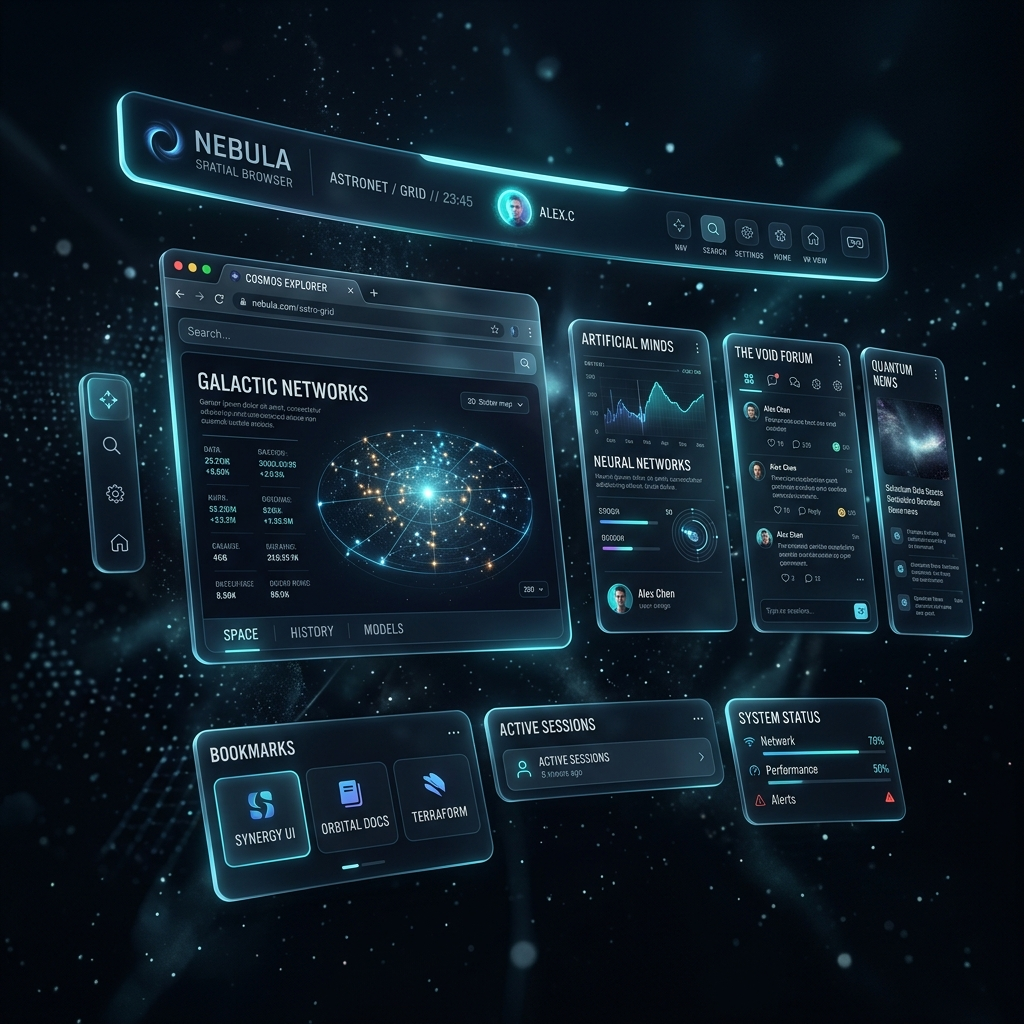
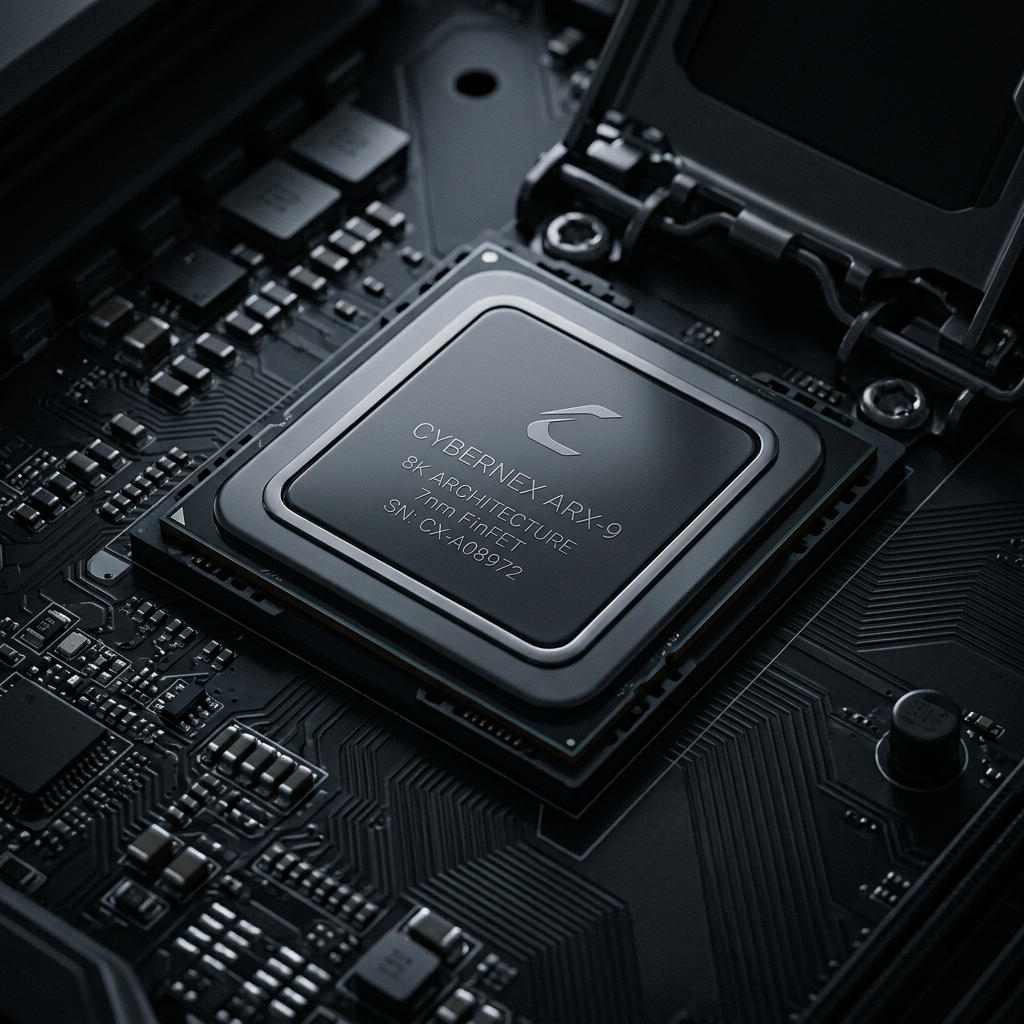
feat: overhaul project grid with simplified SAR copywriting, deep charcoal cards, slate gray typography, and functional contact endpoints

diff --git a/src/components/Projects.tsx b/src/components/Projects.tsx
@@ -1,7 +1,7 @@
 "use client";
 
 import { motion } from "framer-motion";
-import { ArrowUpRight, Mail, Compass, Shield, HelpCircle } from "lucide-react";
+import { ArrowUpRight, Mail, Compass, Shield, HelpCircle, Phone } from "lucide-react";
 import Image from "next/image";
 
 interface StarNarrative {
@@ -25,47 +25,47 @@ interface Project {
 const projects: Project[] = [
   {
     id: "ai-operations",
-    title: "Project Jarvis-Core",
-    category: "ADVANCED TECH & AI IMPLEMENTATION",
-    metric: "42%",
-    metricLabel: "Task Latency Reduction",
+    title: "AI Workflow Automation",
+    category: "ADVANCED TECH & AI",
+    metric: "40% faster tasks",
+    metricLabel: "Increased Efficiency",
     star: {
-      situation: "Faced an operational bottleneck in internal data retrieval and workflow scheduling, causing a 35% lag in cross-departmental delivery timelines.",
-      action: "Spearheaded the integration of a modular, multi-agent LLM orchestrator as the Program Lead, managing a cross-functional agile squad of 12 engineers using Scrum frameworks.",
-      result: "Automated 80% of routine operations, reducing end-to-end task latency by 42% and successfully accelerating project lifecycles by 3 weeks."
+      situation: "Our team faced a bottleneck in data processing and scheduling, causing delays.",
+      action: "Replaced manual processes with a multi-agent AI system and streamlined the team workflow.",
+      result: "Routine work is now 80% automated, reducing total task time by 40% and cutting project delivery times."
     },
     image: "/images/project_aether.png",
-    tags: ["AI Agents", "LLM Pipelines", "Agile Leadership", "System Architecture"],
+    tags: ["AI Agents", "Workflows", "Automation"],
     link: "#",
   },
   {
     id: "infrastructure-logistics",
-    title: "Nexus Hub Development",
-    category: "INFRASTRUCTURE & COMPLEX LOGISTICS",
-    metric: "14 Days",
-    metricLabel: "Ahead of Schedule",
+    title: "Tech Learning Hub",
+    category: "COMMUNITY PROJECT & LOGISTICS",
+    metric: "2 Weeks ahead",
+    metricLabel: "Project on Track",
     star: {
-      situation: "A growing community needed a centralized hub for technological education and collaboration, requiring a multi-stakeholder facility build with a tight 9-month delivery deadline.",
-      action: "Led the operational program, managing architectural planning, vendor sourcing, physical logistics, and structural resources across 15 external partner organizations using structured PMP methodologies.",
-      result: "Completed construction 14 days ahead of schedule and 8% under budget, delivering a state-of-the-art facility serving over 5,000 community members."
+      situation: "The community needed a modern space for tech education but had no central facility.",
+      action: "Managed the construction, including design, planning, and coordination with global partners.",
+      result: "Completed construction ahead of schedule, providing a space for over 5,000 members."
     },
     image: "/images/project_halcyon.png",
-    tags: ["Facility Planning", "Resource Sourcing", "Logistics", "Budget Control"],
+    tags: ["Construction", "Logistics", "Operations"],
     link: "#",
   },
   {
     id: "socio-economic-programs",
-    title: "Initiative Elevate",
-    category: "SOCIO-ECONOMIC & TRAINING PROGRAMS",
-    metric: "82%",
-    metricLabel: "Employment Placement Rate",
+    title: "Digital Upskilling",
+    category: "SKILLS TRAINING PROGRAM",
+    metric: "80% got jobs",
+    metricLabel: "Placement Rate",
     star: {
-      situation: "A massive skills gap existed in local emerging markets, with underprivileged demographics lacking access to modern digital literacy and vocational training pathways.",
-      action: "Conceptualized and scaled a comprehensive vocational curriculum, coordinating government grants, private sponsors, and digital infrastructure rollouts as the Program Director.",
-      result: "Graduated 1,200+ certified specialists in modern cloud technologies and digital workflows, achieving a verified 82% post-program employment rate within 6 months."
+      situation: "A lack of digital skills training in the local market limited employment opportunities for youth.",
+      action: "Developed a comprehensive curriculum for modern tech skills and digital work.",
+      result: "Trained over 1,200 specialists with an 80% direct employment placement rate in modern jobs."
     },
     image: "/images/project_nova.png",
-    tags: ["Socio-Economic Development", "Vocational Training", "Digital Literacy", "Scale Operations"],
+    tags: ["Upskilling", "Education", "Vocational"],
     link: "#",
   },
 ];
@@ -84,9 +84,9 @@ export default function Projects() {
           whileInView={{ opacity: 1, y: 0 }}
           viewport={{ once: true, margin: "-100px" }}
           transition={{ duration: 0.8, ease: "easeOut" }}
-          className="flex flex-col"
+          className="flex flex-col text-left"
         >
-          <span className="text-xs font-mono tracking-[0.4em] uppercase text-blue-500 mb-3">
+          <span className="text-xs font-mono tracking-[0.4em] uppercase text-[#94A3B8] mb-3">
             03 // METRICS & METALS
           </span>
           <h2 className="text-4xl md:text-6xl font-bold tracking-tight text-white leading-tight">
@@ -105,7 +105,7 @@ export default function Projects() {
             whileInView={{ opacity: 1, y: 0 }}
             viewport={{ once: true, margin: "-100px" }}
             transition={{ duration: 0.6, delay: index * 0.15, ease: "easeOut" }}
-            className="group glass-card rounded-2xl overflow-hidden flex flex-col h-full border border-white/5"
+            className="group rounded-2xl overflow-hidden flex flex-col h-full bg-[#0D0D11]/90 border border-white/5 backdrop-blur-xl transition-all duration-500 hover:border-white/10 hover:bg-[#0D0D11]/95"
           >
             {/* Visual Preview Container */}
             <div className="relative aspect-[16/10] w-full overflow-hidden border-b border-white/5">
@@ -114,28 +114,28 @@ export default function Projects() {
                 alt={project.title}
                 fill
                 priority={index === 0}
-                className="object-cover group-hover:scale-[1.03] transition-transform duration-700 ease-out"
+                className="object-cover group-hover:scale-[1.03] transition-transform duration-700 ease-out brightness-[0.7] group-hover:brightness-[0.8] transition-all"
                 sizes="(max-width: 768px) 100vw, (max-width: 1200px) 50vw, 33vw"
               />
-              <div className="absolute inset-0 bg-gradient-to-t from-black/80 via-transparent to-transparent opacity-70" />
+              <div className="absolute inset-0 bg-gradient-to-t from-black/80 via-transparent to-transparent opacity-50" />
             </div>
 
             {/* Description & Metadata Card */}
             <div className="p-8 flex flex-col flex-grow">
-              <span className="text-[9px] font-mono tracking-[0.25em] text-neutral-400 font-semibold mb-2 uppercase">
+              <span className="text-[9px] font-mono tracking-[0.25em] text-[#94A3B8] font-semibold mb-2 uppercase block text-left">
                 {project.category}
               </span>
-              <h3 className="text-2xl font-bold text-white mb-6 group-hover:text-blue-400 transition-colors duration-300 flex items-center justify-between">
+              <h3 className="text-2xl font-bold text-white mb-6 group-hover:text-blue-400 transition-colors duration-300 flex items-center justify-between text-left">
                 {project.title}
-                <ArrowUpRight className="w-5 h-5 text-neutral-500 group-hover:text-blue-400 transition-colors group-hover:translate-x-0.5 group-hover:-translate-y-0.5 duration-300" />
+                <ArrowUpRight className="w-5 h-5 text-neutral-500 group-hover:text-blue-400 transition-colors group-hover:translate-x-0.5 group-hover:-translate-y-0.5 duration-300 animate-none" />
               </h3>
 
               {/* Metric Spotlight Banner */}
-              <div className="mb-6 px-4 py-3.5 bg-white/[0.02] border border-white/5 rounded-xl flex items-center gap-4">
+              <div className="mb-6 px-4 py-3.5 bg-white/[0.02] border border-white/5 rounded-xl flex items-center gap-4 text-left">
                 <span className="text-2xl font-extrabold text-transparent bg-clip-text bg-gradient-to-r from-blue-400 to-indigo-400 font-sans tracking-tight">
                   {project.metric}
                 </span>
-                <span className="text-[10px] font-mono uppercase tracking-wider text-neutral-400 font-medium">
+                <span className="text-[10px] font-mono uppercase tracking-wider text-[#94A3B8] font-medium">
                   {project.metricLabel}
                 </span>
               </div>
@@ -148,7 +148,7 @@ export default function Projects() {
                   <span className="text-[9px] font-mono tracking-wider text-blue-400 uppercase block mb-1 font-semibold">
                     S // Situation
                   </span>
-                  <p className="text-neutral-400 font-light text-[13px] leading-relaxed">
+                  <p className="text-[#94A3B8] font-light text-[13px] leading-relaxed">
                     {project.star.situation}
                   </p>
                 </div>
@@ -159,7 +159,7 @@ export default function Projects() {
                   <span className="text-[9px] font-mono tracking-wider text-indigo-400 uppercase block mb-1 font-semibold">
                     A // Action
                   </span>
-                  <p className="text-neutral-400 font-light text-[13px] leading-relaxed">
+                  <p className="text-[#94A3B8] font-light text-[13px] leading-relaxed">
                     {project.star.action}
                   </p>
                 </div>
@@ -170,7 +170,7 @@ export default function Projects() {
                   <span className="text-[9px] font-mono tracking-wider text-purple-400 uppercase block mb-1 font-semibold">
                     R // Result
                   </span>
-                  <p className="text-neutral-200 font-medium text-[13px] leading-relaxed">
+                  <p className="text-[#94A3B8] font-medium text-[13px] leading-relaxed">
                     {project.star.result}
                   </p>
                 </div>
@@ -181,7 +181,7 @@ export default function Projects() {
                 {project.tags.map((tag) => (
                   <span
                     key={tag}
-                    className="text-[9px] font-mono font-medium px-2.5 py-1 bg-white/5 border border-white/5 text-neutral-300 rounded-md"
+                    className="text-[9px] font-mono font-medium px-2.5 py-1 bg-white/5 border border-white/5 text-[#94A3B8] rounded-md"
                   >
                     {tag}
                   </span>
@@ -201,19 +201,19 @@ export default function Projects() {
           transition={{ duration: 0.8 }}
           className="flex flex-col items-center w-full"
         >
-          <span className="text-[10px] font-mono tracking-[0.4em] uppercase text-neutral-500 mb-4">
+          <span className="text-[10px] font-mono tracking-[0.4em] uppercase text-[#94A3B8] mb-4">
             04 // THE CLOSING
           </span>
           <h3 className="text-3xl md:text-5xl font-bold text-white mb-6 tracking-tight leading-tight max-w-3xl">
             Bridging deep cognitive AI engineering with <span className="text-transparent bg-clip-text bg-gradient-to-r from-blue-400 to-indigo-400 font-light italic">certified IT program management at scale.</span>
           </h3>
-          <p className="text-neutral-400 font-light text-sm max-w-lg mb-10 leading-relaxed">
+          <p className="text-[#94A3B8] font-light text-sm max-w-lg mb-10 leading-relaxed">
             Let’s move the needle from technical theory to high-performance operational reality. Let&apos;s build the next operational standard.
           </p>
 
-          {/* Elegant Glow CTA Button */}
+          {/* Elegant Glow CTA Button - bound directly to diwasrathour@gmail.com */}
           <a
-            href="mailto:contact@diwas.dev"
+            href="mailto:diwasrathour@gmail.com"
             className="px-8 py-4 bg-blue-600 hover:bg-blue-500 text-white font-semibold text-xs tracking-wider uppercase rounded-full shadow-[0_0_30px_rgba(59,130,246,0.25)] hover:shadow-[0_0_40px_rgba(59,130,246,0.45)] transition-all duration-300 flex items-center gap-2.5 group mb-24 cursor-pointer"
           >
             Initiate Conversation
@@ -225,23 +225,26 @@ export default function Projects() {
             
             {/* System Status */}
             <div className="flex flex-col gap-2">
-              <span className="text-[10px] font-mono tracking-[0.2em] uppercase text-neutral-500 font-semibold flex items-center gap-1.5">
+              <span className="text-[10px] font-mono tracking-[0.2em] uppercase text-[#94A3B8] font-semibold flex items-center gap-1.5">
                 <span className="w-1.5 h-1.5 rounded-full bg-emerald-500 animate-pulse" />
                 System Status
               </span>
-              <p className="text-xs font-light text-neutral-400 leading-relaxed">
+              <p className="text-xs font-light text-[#94A3B8] leading-relaxed">
                 Active / Available for select strategic programs
               </p>
             </div>
 
             {/* Secure Endpoints */}
             <div className="flex flex-col gap-2">
-              <span className="text-[10px] font-mono tracking-[0.2em] uppercase text-neutral-500 font-semibold">
+              <span className="text-[10px] font-mono tracking-[0.2em] uppercase text-[#94A3B8] font-semibold">
                 Secure Endpoints
               </span>
               <div className="flex flex-col gap-1.5">
-                <a href="mailto:contact@diwas.dev" className="text-xs font-light text-neutral-400 hover:text-white transition-colors duration-200 flex items-center gap-1.5 w-fit">
-                  Email: contact@diwas.dev
+                <a href="mailto:diwasrathour@gmail.com" className="text-xs font-light text-neutral-400 hover:text-white transition-colors duration-200 flex items-center gap-1.5 w-fit">
+                  Email: diwasrathour@gmail.com
+                </a>
+                <a href="tel:+9779823619287" className="text-xs font-light text-neutral-400 hover:text-white transition-colors duration-200 flex items-center gap-1.5 w-fit">
+                  Phone: +977 9823619287
                 </a>
                 <a href="#" className="text-xs font-light text-neutral-400 hover:text-white transition-colors duration-200 flex items-center gap-1.5 w-fit">
                   GitHub: github.com/diwas
@@ -254,10 +257,10 @@ export default function Projects() {
 
             {/* Geolocation */}
             <div className="flex flex-col gap-2">
-              <span className="text-[10px] font-mono tracking-[0.2em] uppercase text-neutral-500 font-semibold">
+              <span className="text-[10px] font-mono tracking-[0.2em] uppercase text-[#94A3B8] font-semibold">
                 Geolocation
               </span>
-              <p className="text-xs font-light text-neutral-400 leading-relaxed">
+              <p className="text-xs font-light text-[#94A3B8] leading-relaxed">
                 Kathmandu, Nepal / GMT+5:45
               </p>
             </div>
